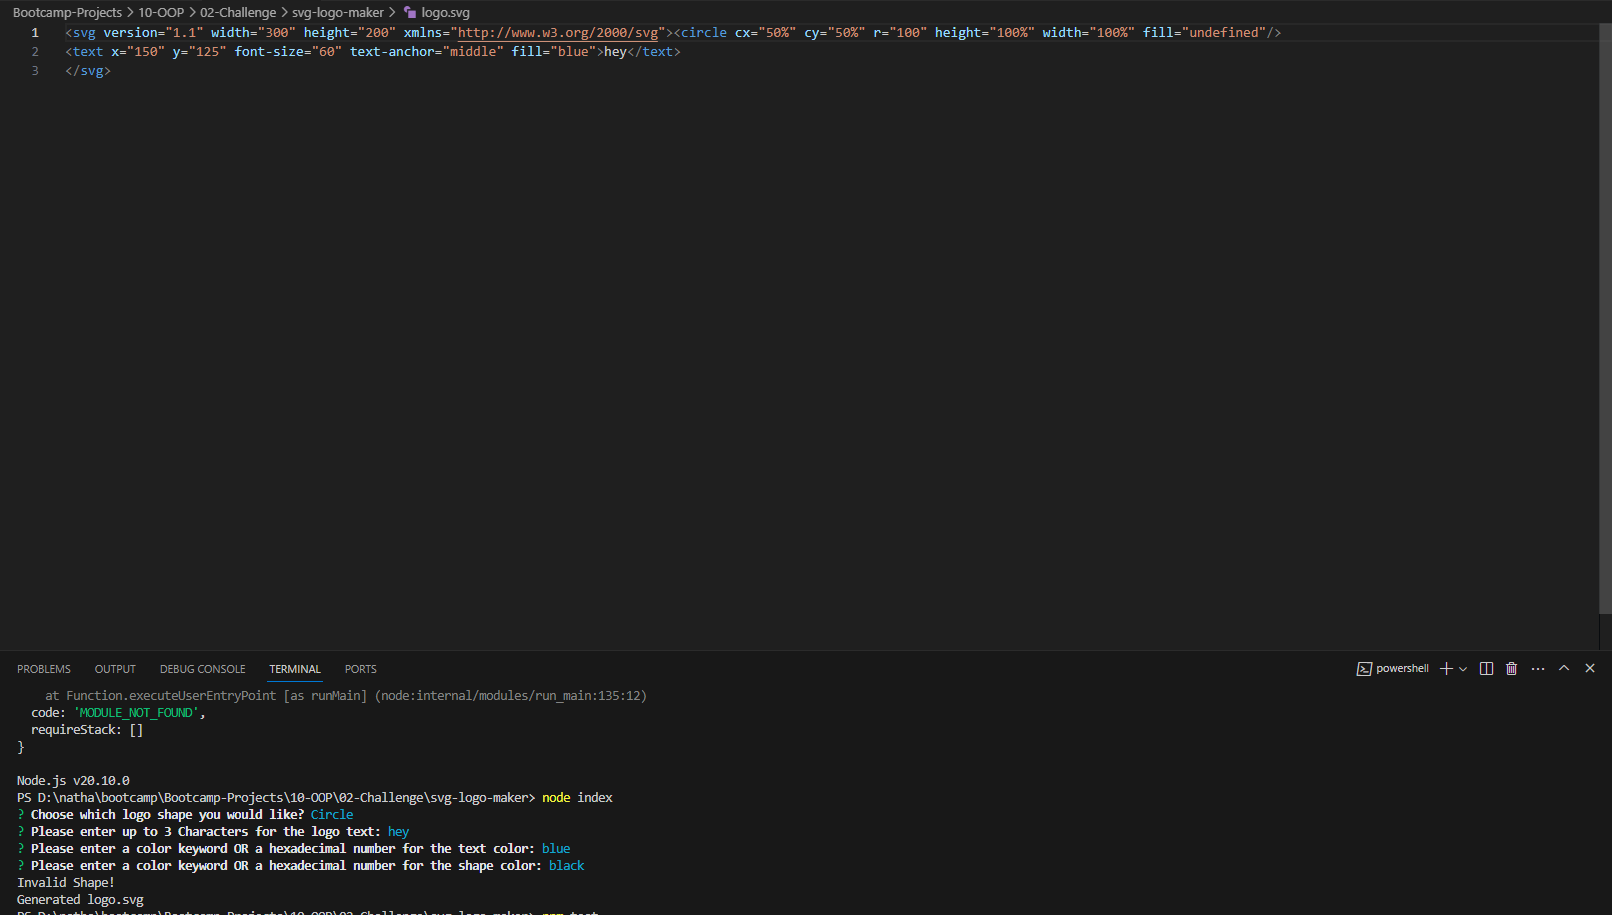
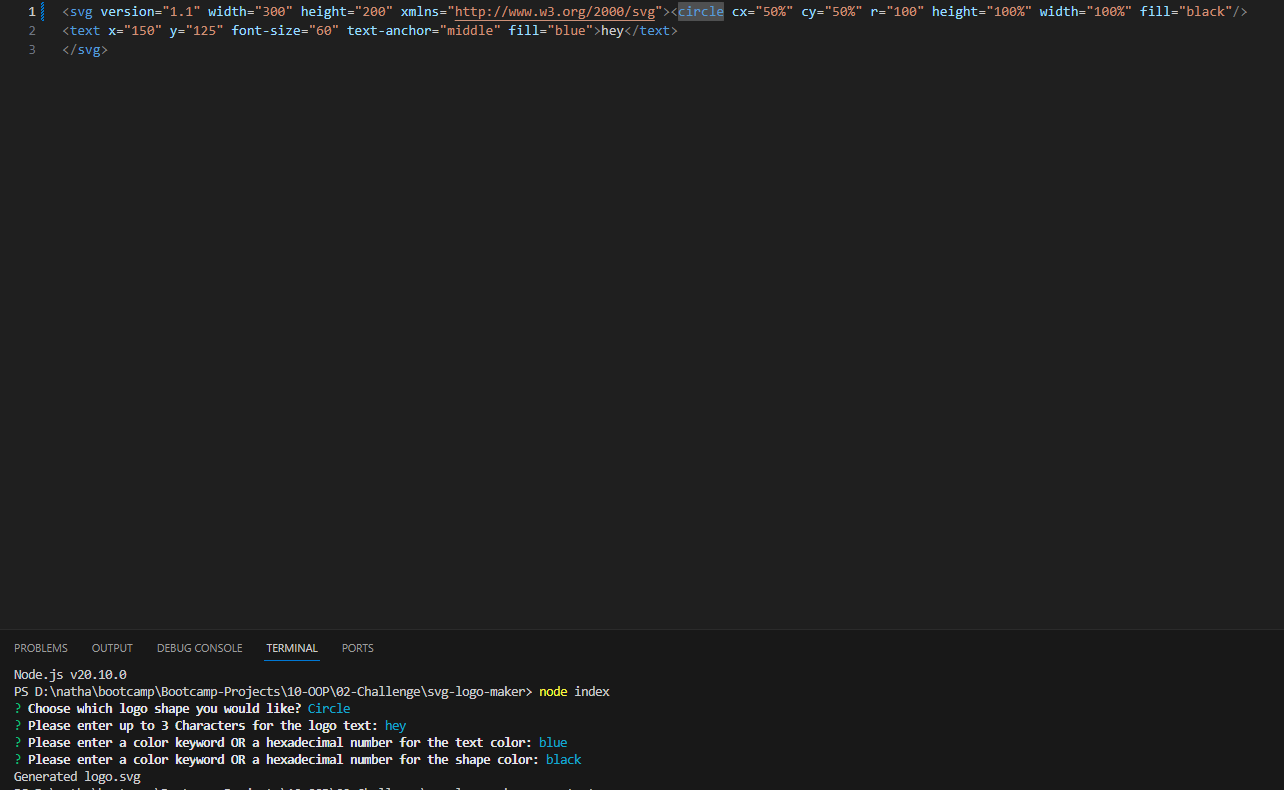
Changed screenshot and fixed bug

diff --git a/index.js b/index.js
@@ -43,7 +43,7 @@ function shape(response) {
 //Generates the circle svg data
     if (response.shape === 'Circle') {
         shapeChoice = new Circle();
-        svg += `<circle cx="50%" cy="50%" r="100" height="100%" width="100%" fill="${this.color}"/>`;
+        svg += `<circle cx="50%" cy="50%" r="100" height="100%" width="100%" fill="${response.shapeColor}"/>`;
         svg +=  `
 <text x="150" y="125" font-size="60" text-anchor="middle" fill="${response.textColor}">${user_text}</text>
 </svg>`
@@ -61,10 +61,7 @@ function shape(response) {
         svg +=  `
 <text x="150" y="145" font-size="60" text-anchor="middle" fill="${response.textColor}">${user_text}</text>
 </svg>`
-    } 
-    else {
-      console.log('Invalid Shape!');
-    };
+    }
 
 
     return svg
